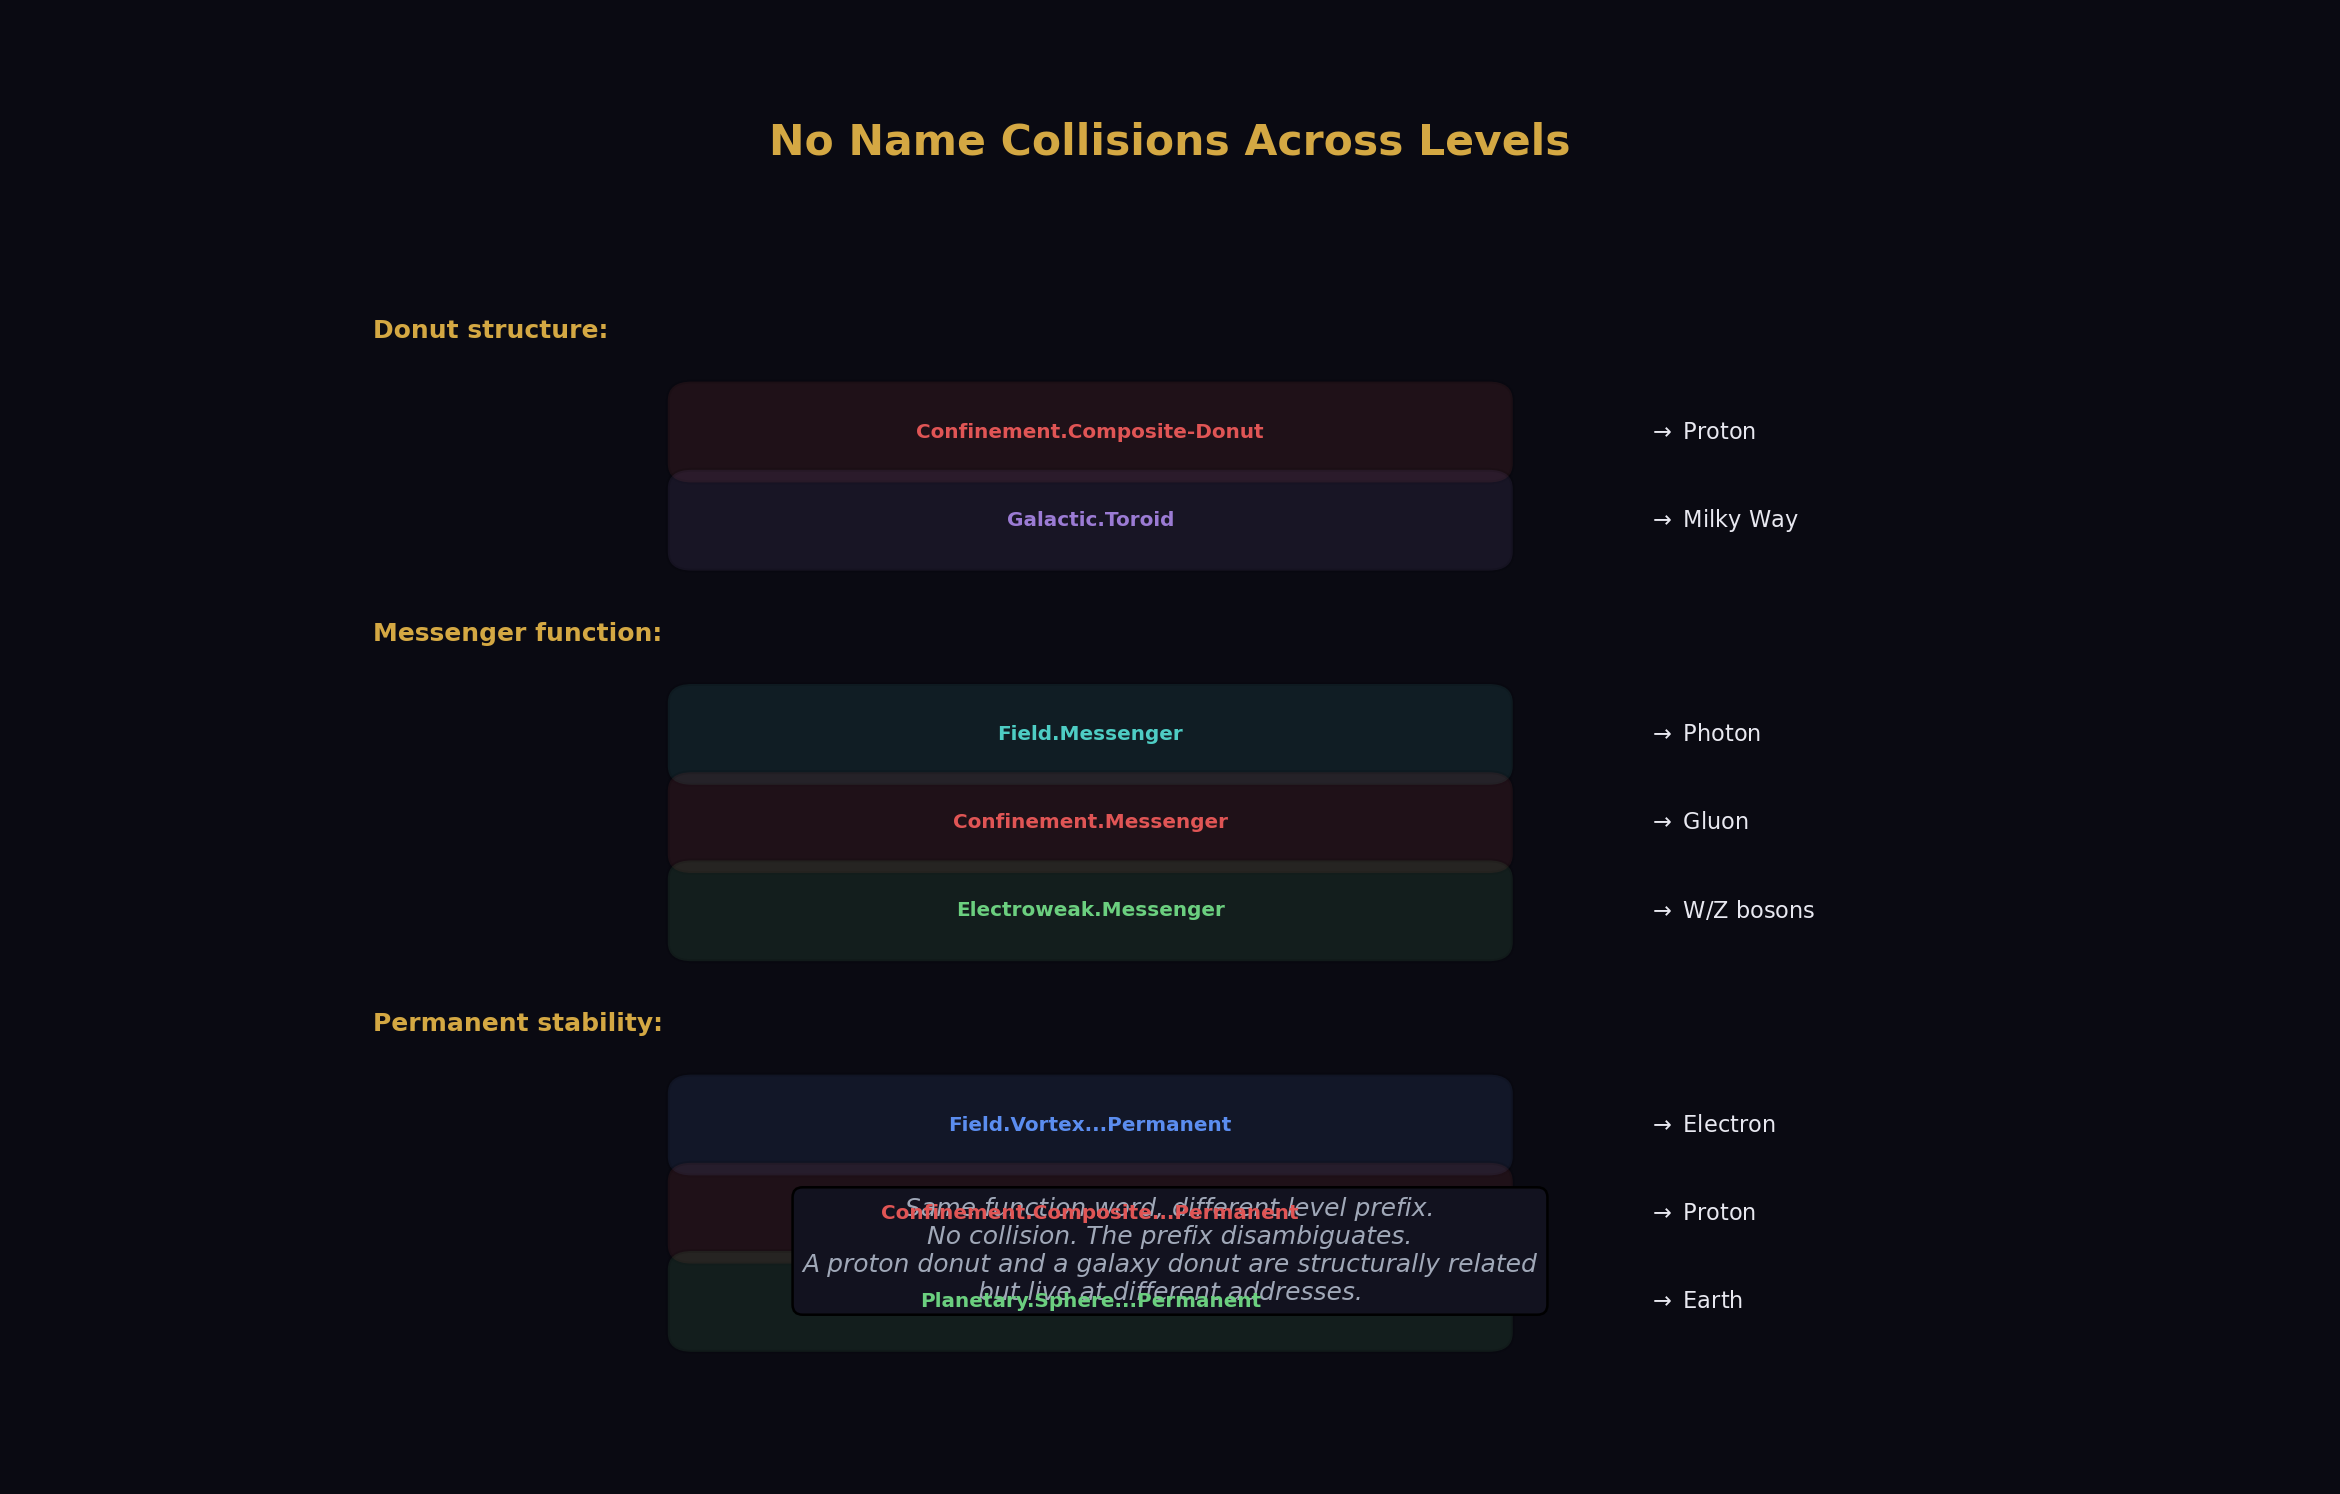
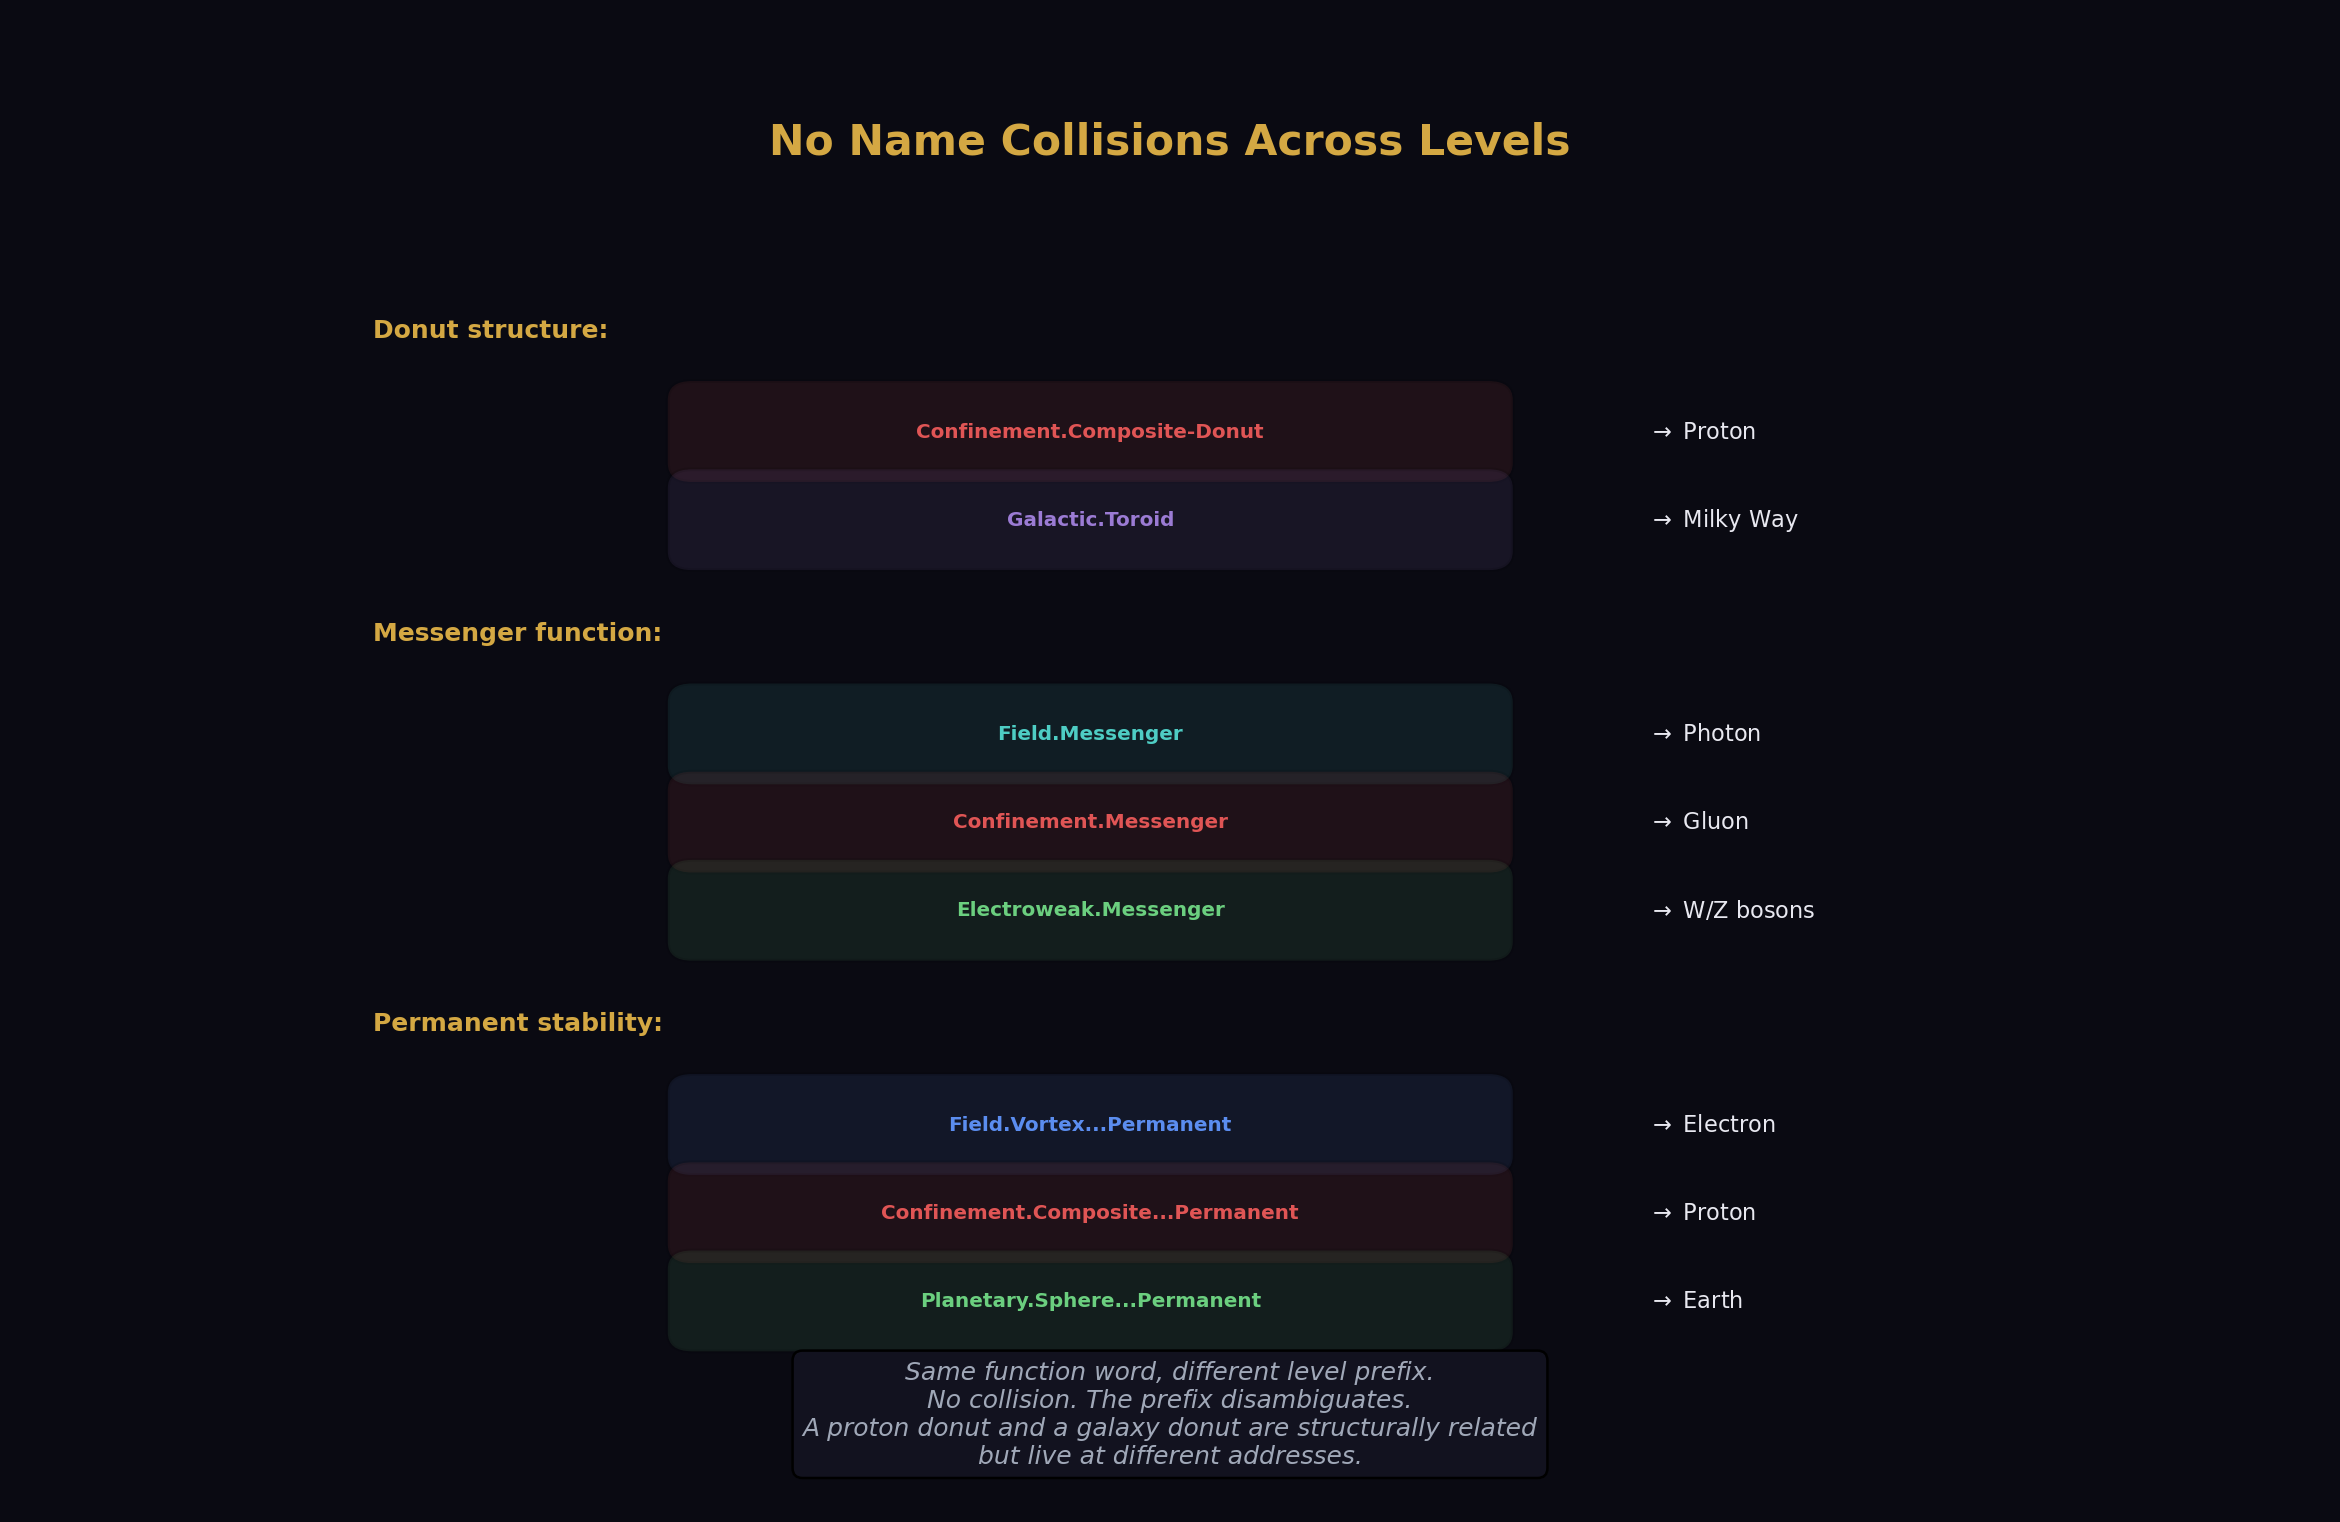
Update All

diff --git a/videos/code/diagram_10_1.py b/videos/code/diagram_10_1.py
@@ -352,7 +352,7 @@ for group_name, items in examples:
 
     y_start -= len(items) * 0.7 + 1.0
 
-ax.text(6, 0.5, "Same function word, different level prefix.\nNo collision. The prefix disambiguates.\nA proton donut and a galaxy donut are structurally related\nbut live at different addresses.",
+ax.text(6, -0.8, "Same function word, different level prefix.\nNo collision. The prefix disambiguates.\nA proton donut and a galaxy donut are structurally related\nbut live at different addresses.",
         ha='center', va='center', fontsize=10, color=SILVER, fontstyle='italic',
         bbox=dict(boxstyle='round,pad=0.4', facecolor=PAN))
 
@@ -697,4 +697,3 @@ filenames = [
 ]
 for f in filenames:
     print("  %s" % f)
-    